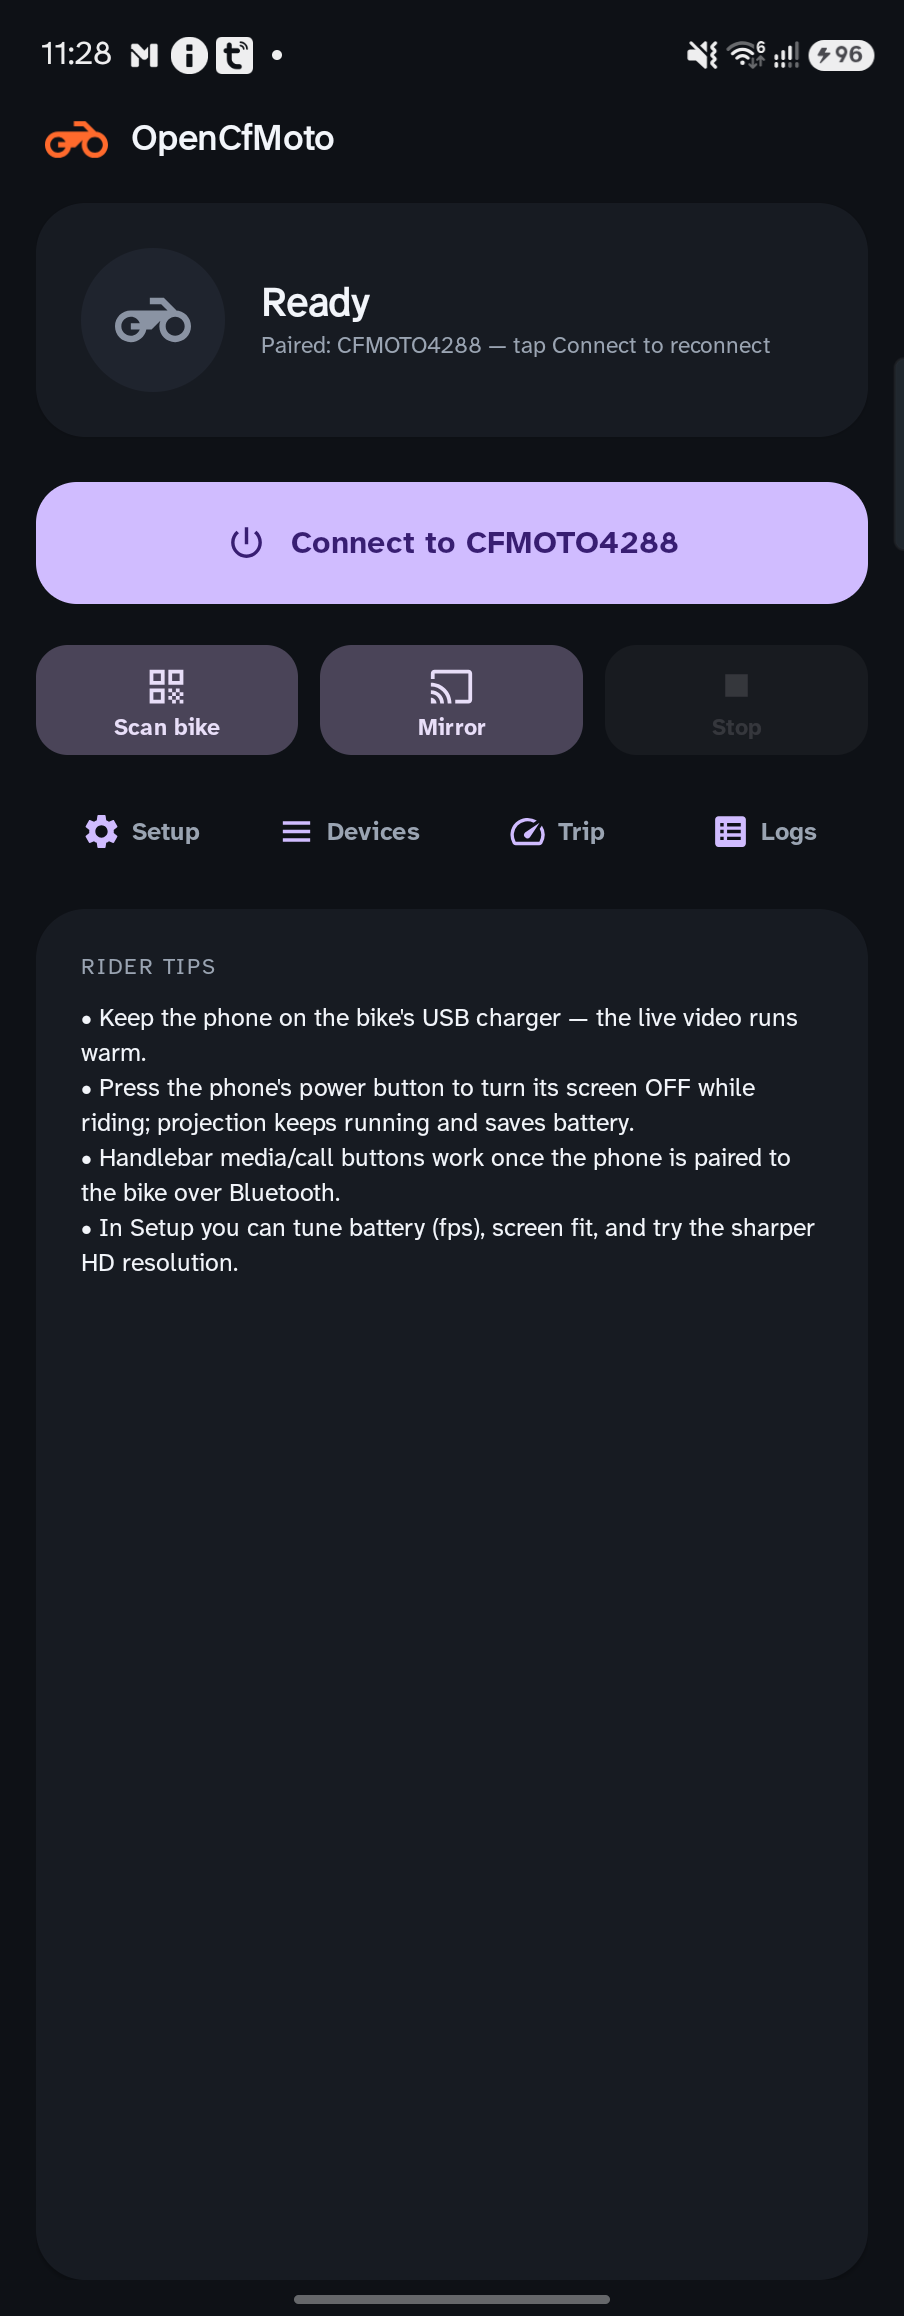
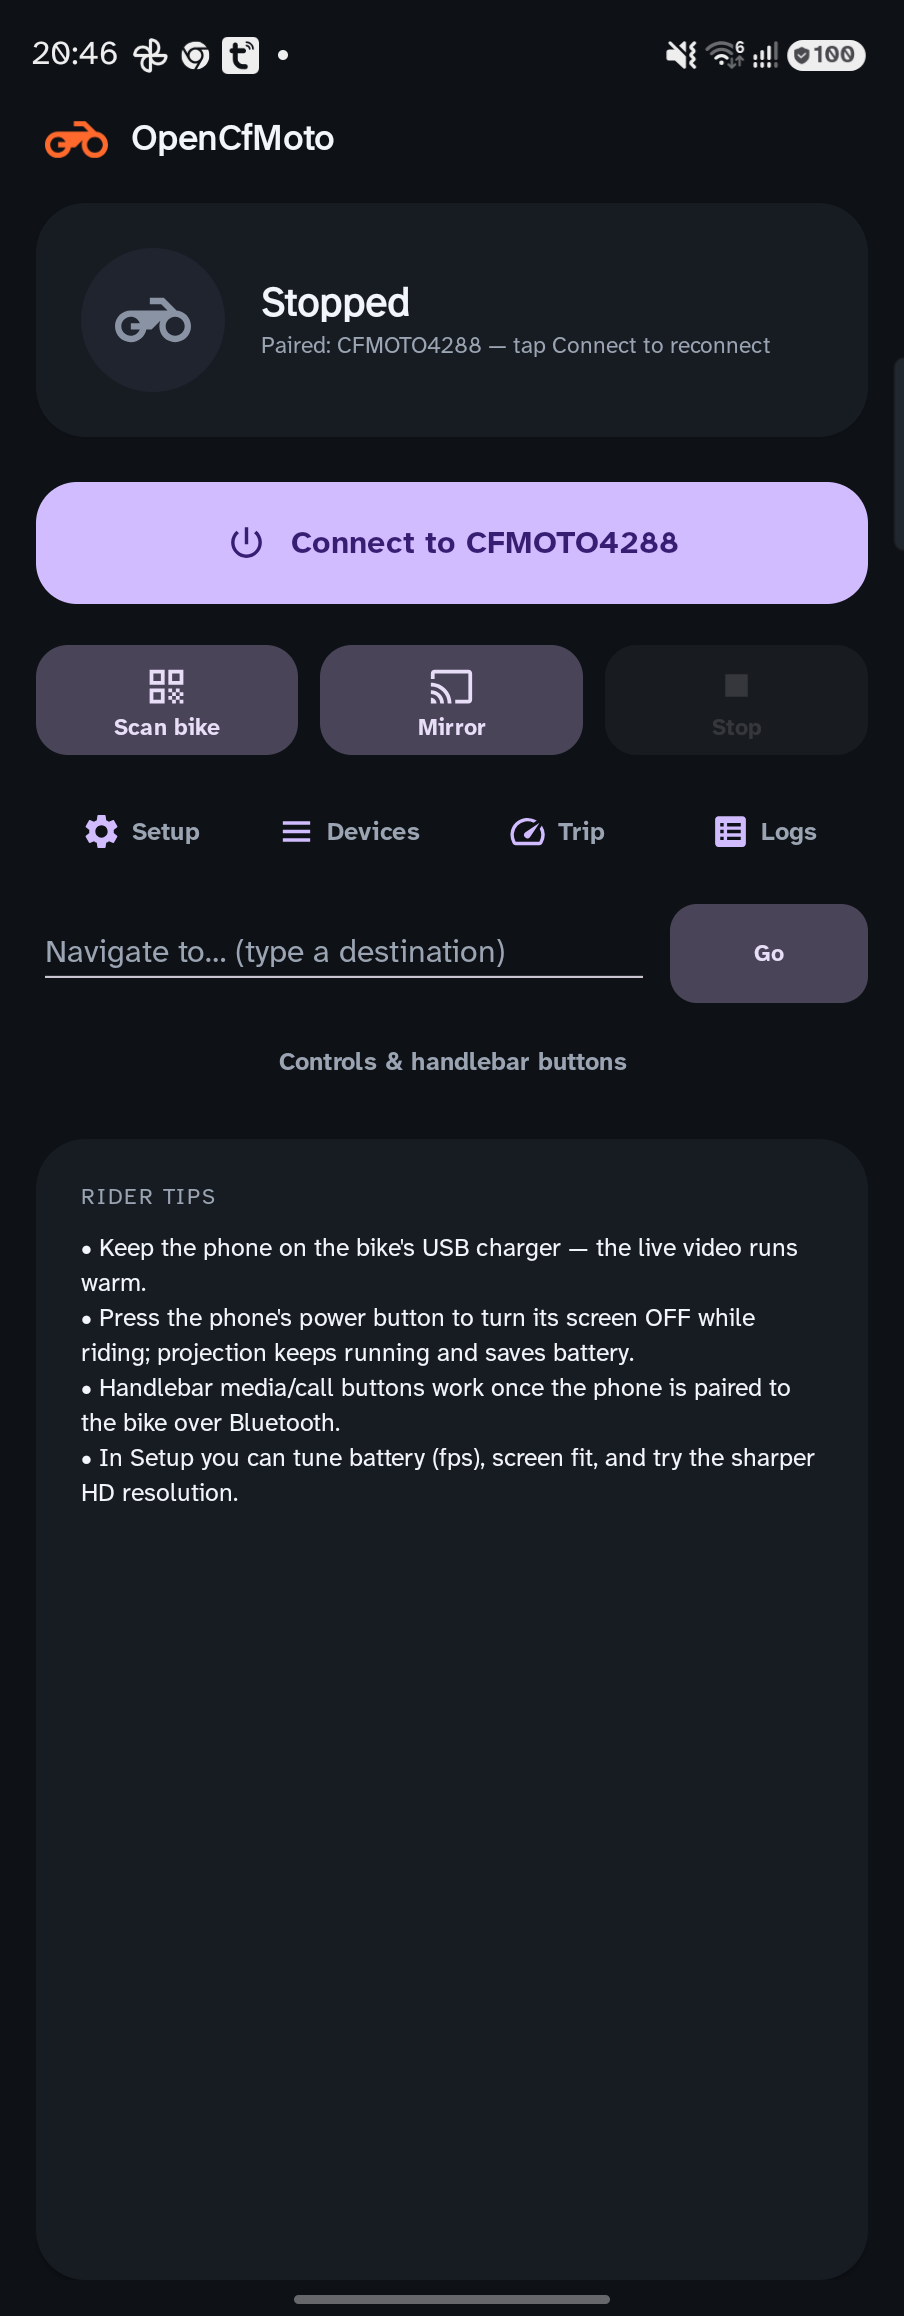
Refresh README screenshots + semantic handlebar mapping
- Recapture home, Setup (permissions/display), startup & recovery
- Add new Controls, Button mapping, and Supported bikes screenshots
- Wire Controls/mapping images + updated handlebar defaults into README
- Semantic gesture mapping (Backward/Forward/Select + doubles) so one setup works across touch (800MT) and non-touch (450SR) dashes
- Touch-dash hint in Controls; in-app Supported bikes card

diff --git a/app/src/main/java/dev/zanderp/opencfmoto/MediaButtonBridge.kt b/app/src/main/java/dev/zanderp/opencfmoto/MediaButtonBridge.kt
@@ -192,7 +192,7 @@ class MediaButtonBridge(private val context: Context, private val log: (String) 
             session?.setMetadata(
                 MediaMetadata.Builder()
                     .putString(MediaMetadata.METADATA_KEY_TITLE, "Android Auto control")
-                    .putString(MediaMetadata.METADATA_KEY_ARTIST, "Hold ▲/▼ to navigate · OK to select")
+                    .putString(MediaMetadata.METADATA_KEY_ARTIST, "◀ ▶ / ▲ ▼ navigate · Enter selects")
                     .putString(MediaMetadata.METADATA_KEY_ALBUM, "OpenCfMoto")
                     .putLong(MediaMetadata.METADATA_KEY_DURATION, TRACK_MS)
                     .build()
@@ -328,11 +328,13 @@ class MediaButtonBridge(private val context: Context, private val log: (String) 
                 try { audio.setStreamVolume(AudioManager.STREAM_MUSIC, pinnedVolume, 0) } catch (_: Exception) {}
 
                 val double = kotlin.math.abs(jump) >= DOUBLE_TAP_STEPS
+                // Volume UP = backward (previous item), DOWN = forward (next item) — same semantics as
+                // the 800MT's ◀/▶ track keys, so both layouts drive the same gestures.
                 val gesture = when {
-                    up && double -> ButtonGesture.VOL_UP_DOUBLE
-                    up -> ButtonGesture.VOL_UP_PRESS
-                    double -> ButtonGesture.VOL_DOWN_DOUBLE
-                    else -> ButtonGesture.VOL_DOWN_PRESS
+                    up && double -> ButtonGesture.NAV_BACK_DOUBLE
+                    up -> ButtonGesture.NAV_BACK
+                    double -> ButtonGesture.NAV_FWD_DOUBLE
+                    else -> ButtonGesture.NAV_FWD
                 }
                 log("[BTN] volume $dir ($pinnedVolume→$now, jump=$jump)${if (double) " ×2" else ""}")
                 run(gesture)
@@ -402,20 +404,28 @@ class MediaButtonBridge(private val context: Context, private val log: (String) 
             return true
         }
         // Fallbacks: the bike takes the raw-key path above; other dashes / BT remotes may dispatch here.
-        override fun onPlay() = run(ButtonGesture.ENTER_PRESS)
-        override fun onPause() = run(ButtonGesture.ENTER_PRESS)
+        override fun onPlay() = run(ButtonGesture.SELECT_PRESS)
+        override fun onPause() = run(ButtonGesture.SELECT_PRESS)
     }
 
     /**
-     * Map a raw media keycode to a gesture. Only enter (play/pause toggle) is acted on; everything
-     * else the dash can send here is logged and dropped (aliasing an unused key onto another
-     * gesture's action would be a nasty surprise when that gesture is "navigate home").
+     * Map a raw media keycode to a gesture:
+     *   • play/pause → enter (select) — every dash sends this on the enter/OK button.
+     *   • next-/previous-track → the ▶/◀ presses of the 800MT's 5-way joystick (verified on hardware:
+     *     right = KEYCODE_MEDIA_NEXT, left = KEYCODE_MEDIA_PREVIOUS). The 3-button CFDL16 dashes never
+     *     emit these, so wiring them up is harmless there.
+     * Anything else is logged and dropped — aliasing an unknown key onto a real action would be a
+     * nasty surprise when that action is "navigate home".
      */
     private fun forward(keyCode: Int) {
         when (keyCode) {
             KeyEvent.KEYCODE_MEDIA_PLAY_PAUSE,
             KeyEvent.KEYCODE_MEDIA_PLAY,
-            KeyEvent.KEYCODE_MEDIA_PAUSE -> run(ButtonGesture.ENTER_PRESS)
+            KeyEvent.KEYCODE_MEDIA_PAUSE -> run(ButtonGesture.SELECT_PRESS)
+            KeyEvent.KEYCODE_MEDIA_NEXT,
+            KeyEvent.KEYCODE_MEDIA_FAST_FORWARD -> run(ButtonGesture.NAV_FWD)
+            KeyEvent.KEYCODE_MEDIA_PREVIOUS,
+            KeyEvent.KEYCODE_MEDIA_REWIND -> run(ButtonGesture.NAV_BACK)
         }
     }
 

diff --git a/app/src/main/java/dev/zanderp/opencfmoto/ButtonMap.kt b/app/src/main/java/dev/zanderp/opencfmoto/ButtonMap.kt
@@ -40,13 +40,19 @@ enum class ButtonAction(val id: String, val label: String) {
 }
 
 /**
- * The gestures a CFMoto dash can actually produce **and that Android Auto acts on** over Bluetooth
- * AVRCP:
- *   • a short press of ▲/▼ → an absolute-volume write (direction = which button)
- *   • a double tap of ▲/▼ → ONE absolute-volume write with a bigger jump (the dash coalesces them)
- *   • enter → an AVRCP play/pause passthrough
+ * The **semantic** gestures a CFMoto handlebar can produce, regardless of which physical buttons a
+ * given bike uses. Different dashes send navigation on different buttons, but they all collapse to a
+ * "previous / next / select" trio, so we map by meaning and let [MediaButtonBridge] route whatever
+ * the bike sends into the matching gesture — no per-bike layout config needed:
+ *   • **Backward / Forward** — the CFDL16 dashes (450SR etc.) send these as ▲/▼ *volume* writes;
+ *     the 800MT's 5-way sends them as ◀/▶ *previous-/next-track*. Either way ◀/▲ = backward and
+ *     ▶/▼ = forward.
+ *   • **Backward/Forward ×2** — a double-tap. Only the volume dashes can signal it (one coalesced
+ *     volume write with a bigger jump); the 800MT's discrete track keys just repeat the single step,
+ *     so these rows are effectively non-touch-dash only.
+ *   • **Select** — the OK / ★ (start) button, which every dash sends as an AVRCP play/pause.
  *
- * [label] describes the physical gesture; [hint] says what the dash actually sends.
+ * [label] is the semantic name (with the physical buttons that trigger it); [hint] explains it.
  */
 enum class ButtonGesture(
     val id: String,
@@ -54,11 +60,11 @@ enum class ButtonGesture(
     val hint: String,
     val default: ButtonAction,
 ) {
-    VOL_UP_PRESS("volUpPress", "▲ press", "dash sends volume up", ButtonAction.KNOB_BACK),
-    VOL_UP_DOUBLE("volUpDouble", "▲ double tap", "one big volume jump up", ButtonAction.HOME),
-    VOL_DOWN_PRESS("volDownPress", "▼ press", "dash sends volume down", ButtonAction.KNOB_FORWARD),
-    VOL_DOWN_DOUBLE("volDownDouble", "▼ double tap", "one big volume jump down", ButtonAction.BACK),
-    ENTER_PRESS("enterPress", "Enter", "dash sends play/pause", ButtonAction.SELECT),
+    NAV_BACK("navBack", "Backward  ◀ / ▲", "◀ left, or the ▲ volume press on non-touch dashes", ButtonAction.KNOB_BACK),
+    NAV_FWD("navFwd", "Forward  ▶ / ▼", "▶ right, or the ▼ volume press on non-touch dashes", ButtonAction.KNOB_FORWARD),
+    SELECT_PRESS("selectPress", "Select  Enter / ★", "the OK / ★ start button (dash sends play-pause)", ButtonAction.SELECT),
+    NAV_BACK_DOUBLE("navBackDouble", "Backward ×2", "double-tap backward — non-touch dashes only", ButtonAction.HOME),
+    NAV_FWD_DOUBLE("navFwdDouble", "Forward ×2", "double-tap forward — non-touch dashes only", ButtonAction.BACK),
 }
 
 /**

diff --git a/app/src/main/java/dev/zanderp/opencfmoto/DashMemory.kt b/app/src/main/java/dev/zanderp/opencfmoto/DashMemory.kt
@@ -14,9 +14,25 @@ import android.content.Context
 object DashMemory {
     private const val PREFS = "opencfmoto_bike"
     private const val KEY_PREFIX = "dash_geo_"
+    private const val KEY_LAST_TOUCH = "last_dash_touch"
 
     private fun prefs(ctx: Context) =
         ctx.applicationContext.getSharedPreferences(PREFS, Context.MODE_PRIVATE)
+
+    /**
+     * Remember whether the last dash we connected to is a touchscreen. Lets the Controls screen warn
+     * that handlebar-button navigation is pointless on a touch dash (Android Auto runs its touch UI,
+     * which has no focus cursor for the rotary knob to move) even before this session connects.
+     */
+    fun setLastDashTouch(ctx: Context, touch: Boolean) {
+        prefs(ctx).edit().putBoolean(KEY_LAST_TOUCH, touch).apply()
+    }
+
+    /** Whether the last connected dash was a touchscreen, or null if we've never connected. */
+    fun lastDashTouch(ctx: Context): Boolean? {
+        val p = prefs(ctx)
+        return if (p.contains(KEY_LAST_TOUCH)) p.getBoolean(KEY_LAST_TOUCH, false) else null
+    }
 
     /** Record the dash's requested canvas for [ssid] (ignored if degenerate). */
     fun observe(ctx: Context, ssid: String?, w: Int, h: Int) {

diff --git a/app/src/main/java/dev/zanderp/opencfmoto/ControlsActivity.kt b/app/src/main/java/dev/zanderp/opencfmoto/ControlsActivity.kt
@@ -62,6 +62,21 @@ class ControlsActivity : AppCompatActivity() {
             key(AaInput.KEY_ASSISTANT)
         }
 
+        // Touchscreen dashes (800MT, 1000 MT-X) run Android Auto's touch UI, which has no focus
+        // cursor for a rotary knob to move — so handlebar-button navigation can't work there and only
+        // costs the rider their music. Warn, and let them just tap the dash. The live profile is
+        // authoritative once connected; otherwise fall back to what the last connect remembered.
+        val live = BikeProfileHolder.active
+        val touchDash: Boolean? = if (live !== BikeProfiles.legacy) {
+            DashMemory.setLastDashTouch(this, live.supportsScreenTouch)
+            live.supportsScreenTouch
+        } else {
+            DashMemory.lastDashTouch(this)
+        }
+        if (touchDash == true) {
+            findViewById<View>(R.id.tv_touch_hint).visibility = View.VISIBLE
+        }
+
         // Handlebar-button mode toggle (live-applied if the bridge is running).
         val sw = findViewById<MaterialSwitch>(R.id.switch_control_aa)
         sw.isChecked = ButtonMode.isControlAa(this)

diff --git a/app/src/main/java/dev/zanderp/opencfmoto/MainActivity.kt b/app/src/main/java/dev/zanderp/opencfmoto/MainActivity.kt
@@ -87,6 +87,7 @@ class MainActivity : AppCompatActivity() {
      *  which must be set before AA starts. CLIENT_INFO refines it later during the PXC handshake. */
     private fun applyProfile(qr: QrData) {
         BikeProfileHolder.active = BikeProfiles.selectByQr(qr)
+        DashMemory.setLastDashTouch(this, BikeProfileHolder.active.supportsScreenTouch)
         val userOverride = VideoPrefs.resolutionOverride(this, BikeProfileHolder.active)
         // In AUTO mode, if a previous session revealed this dash is a different orientation than the
         // profile assumes, flip AA to match. Learned from the dash's REQ_CONFIG_CAPTURE (see DashMemory).

diff --git a/README.md b/README.md
@@ -80,6 +80,47 @@ No root, no VPN, no PC required to ride.
 
 ---
 
+## 🏍️ Supported bikes
+
+OpenCfMoto speaks the **CFMoto MotoPlay** protocol — the same phone-projection system the official
+**CFMOTO RIDE** app uses. Any bike with a MotoPlay-capable dash is a candidate: generally **2024+**
+models fitted with a **T‑BOX**. Some need a one-time **dash OTA update** (triggered from the CFMOTO
+RIDE app) before MotoPlay appears.
+
+<p>
+<img src="docs/screenshots/12_supported_bikes.png" width="240" alt="In-app supported bikes list"/>
+</p>
+
+**✅ Confirmed working with OpenCfMoto**
+
+- **800MT** (MT‑X / Explore) — landscape touchscreen (CFDL26)
+- **1000 MT‑X** — portrait touchscreen (CFDL26)
+- **450SR** — non‑touch dash (CFDL16); driven with the handlebar buttons + on-screen pad
+
+**🧪 MotoPlay-equipped — should work (untested; reports welcome)**
+
+| Family | Models |
+| --- | --- |
+| **Naked (NK)** | 125NK · 450NK · 675NK · 800NK (Advanced / Sport) |
+| **Sport (SR)** | 450SR (2024+) · 450SR‑S · 450SR TC · 675SR‑R |
+| **Touring / Adventure (MT)** | 450MT · 700MT · 700MT Adventure · 800MT‑X · 800MT Explore · 800MT Explore GT |
+| **Cruiser (CL)** | 450CL‑C |
+| **ATV / SSV (TFT dash)** | CFORCE 800 (2024+) · CFORCE 1000 (2024+) |
+
+**🚫 Not MotoPlay-equipped** (per CFMoto): 800MT Sport, 800MT Touring, 450SR World Champion Edition,
+700CL‑X (Adventure / Heritage / Sport).
+
+> **Availability varies by model year and region.** Quickest check: if **MotoPlay** shows up as a
+> subscription option in the official **CFMOTO RIDE** app for your bike, the dash speaks the protocol
+> OpenCfMoto uses. **Touch** dashes are driven with the screen; **non‑touch** dashes with the
+> handlebar buttons + on-screen pad. Tried a bike that isn't listed as confirmed?
+> Tell us in **[Discord](https://discord.gg/xRt5yZy2U)** so we can add it.
+
+Sources: CFMoto RIDE app model availability tables ([CFMOTO Benelux](https://cfmotobenelux.com/en/cfmoto-ride-app/),
+[CFMOTO Canada](https://cfmoto.ca/en/cfmoto-ride-app)) and the CFMoto RIDE / MotoPlay OTA rollout notes.
+
+---
+
 ## 🚀 Getting started
 
 ### 1. Prepare the bike
@@ -228,16 +269,28 @@ Touchscreen dashes (800MT, 1000 MT‑X) are driven by touch. **Non-touch dashes*
 bikes — 450SR, 675SR, 300SR, 450NK, 675NK, 450MT, 450CL‑C) are driven by the **handlebar buttons**
 and an **on-screen pad** instead. Open **Controls & handlebar buttons** from the main screen.
 
+<p>
+<img src="docs/screenshots/10_controls.png" width="220" alt="Controls — on-screen pad + handlebar toggle"/>&nbsp;
+<img src="docs/screenshots/11_button_mapping.png" width="220" alt="Handlebar button mapping"/>
+</p>
+
+<br clear="all"/>
+
 **Handlebar buttons → Android Auto.** The buttons reach the phone over **Bluetooth** (AVRCP) — *not*
 the mirroring link — so you must **pair the phone to the bike over Bluetooth** first. Turn on
 *Handlebar buttons drive Android Auto* and the defaults are:
 
-| Gesture | Default action |
+| Gesture (button) | Default action |
 | --- | --- |
-| **▲ / ▼ press** | Rotary knob — step through the current list |
-| **Enter** | Select / OK |
-| **▼▼ (double down)** | Back |
-| **▲▲ (double up)** | Home (app list) |
+| **Backward** — ◀ left, or ▲ volume on non-touch dashes | Rotary knob back (previous item) |
+| **Forward** — ▶ right, or ▼ volume on non-touch dashes | Rotary knob forward (next item) |
+| **Select** — Enter / ★ (start) button | Select / OK |
+| **Backward ×2** (double-tap, non-touch dashes) | Home (app list) |
+| **Forward ×2** (double-tap, non-touch dashes) | Back |
+
+The mapping is by **meaning, not by physical button**: the app auto-routes whatever your bike
+sends — the 450SR's ▲/▼ volume, or the 800MT's ◀/▶ track keys — into the same Backward / Forward /
+Select gestures, so one setup works across bikes.
 
 Every gesture is **remappable** in **Customize buttons** (knob, D-pad, select, back, home, Assistant,
 do-nothing, or *navigate to a saved place*). While the mode is on, the buttons stop skipping music